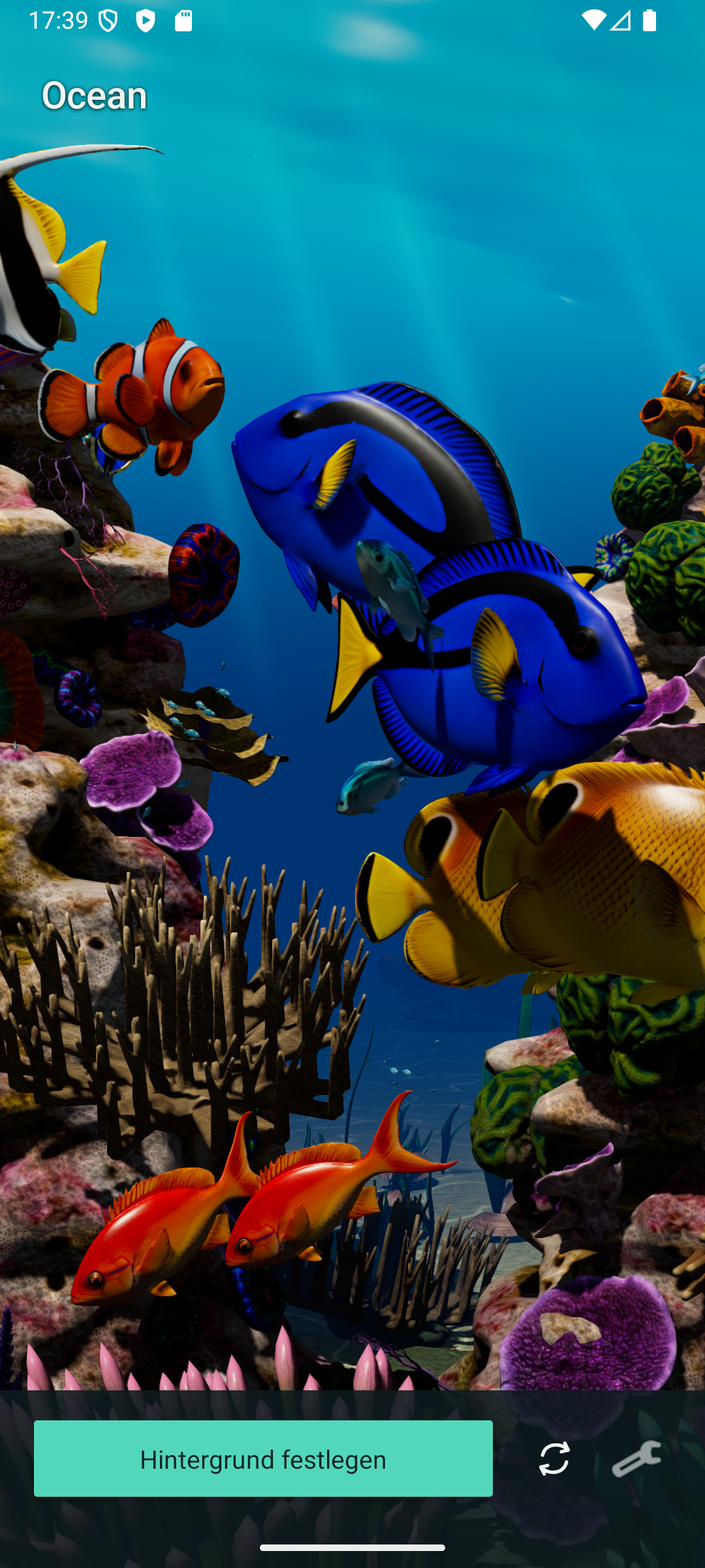
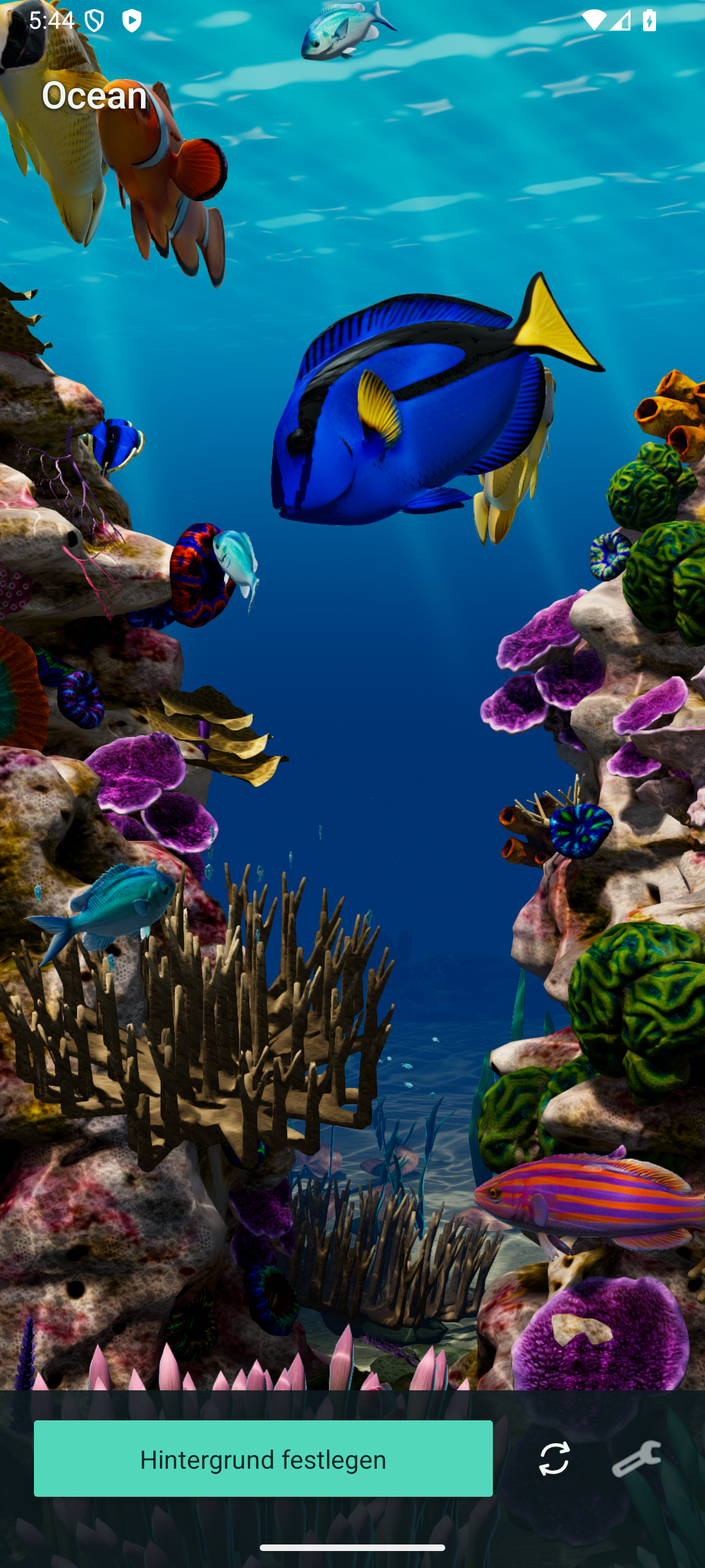
Show fresh emulator capture with water lighting and soft shadows

diff --git a/README.md b/README.md
@@ -9,10 +9,10 @@ Ocean is a real-time 3D live wallpaper, not a looping video.
 
 <p align="center">
   <a href="media/ocean-1.9.0-portrait.png">
-    <img src="media/ocean-1.9.0-portrait.png" width="360" alt="Ocean 1.9.0: clownfish, blue tangs and colourful coral framing a sunlit underwater canyon" />
+    <img src="media/ocean-1.9.0-portrait.png" width="360" alt="Ocean 1.9.0: tropical fish in a colourful coral canyon with moving water light and distance-softened shadows enabled" />
   </a>
   <br />
-  <em>Ocean 1.9.0 · Actual Android app · Captured in an emulator on September 25, 2026</em>
+  <em>Ocean 1.9.0 · Water light and soft shadows enabled · Emulator capture, September 27, 2026</em>
 </p>
 
 **[Watch the earlier preview on YouTube](https://www.youtube.com/shorts/x7QC6oZ9l2A)**
@@ -175,8 +175,9 @@ separately. You do not need a GitHub account or access token to check for update
 The images and preview show the actual Android app running in an emulator.
 They are not pre-rendered concept art or a phone performance benchmark.
 The screenshot at the top shows the signed **Ocean 1.9.0** release, captured
-on September 25, 2026. It is an unchanged 1080 × 2400 screenshot; only its
-display size is reduced here. Click it to see the full-resolution image.
+on September 27, 2026, with **moving water light** and **distance-softened
+shadows** enabled. It is an unchanged 1080 × 2400 screenshot; only its display
+size is reduced here. Click it to see the full-resolution image.
 
 The earlier [landscape screenshot](media/ocean-landscape.png),
 [portrait screenshot](media/ocean-portrait.png) and video predate the 1.1.0

diff --git a/media/README.md b/media/README.md
@@ -4,12 +4,14 @@
 The channel owner uploaded the preview; the public README links to it below
 the current screenshot. GitHub README pages do not embed YouTube iframe players.
 
-## Ocean 1.9.0 — September 25, 2026
+## Ocean 1.9.0 — September 27, 2026
 
 [`ocean-1.9.0-portrait.png`](ocean-1.9.0-portrait.png) is a direct 1080 × 2400
 screenshot of the signed **Ocean 1.9.0 / version code 34** release running in
-an API-36 Android emulator. It shows the coral canyon, animated fish and the
-app's German preview controls after resuming the app during release checks.
+an API-36 Android emulator. Captured directly from the running app on September
+27, 2026, it shows the coral canyon, swimming fish and the German preview controls.
+Moving water light and distance-softened shadows are enabled, with caustic
+speed at 40%, Balanced shadow quality, 16 fish and 75% extra growth.
 The PNG is unchanged: no cropping, recolouring, retouching or added captions.
 The main README only reduces its displayed width and links to the original.
 This is an actual app capture, not concept art or a phone performance result.
